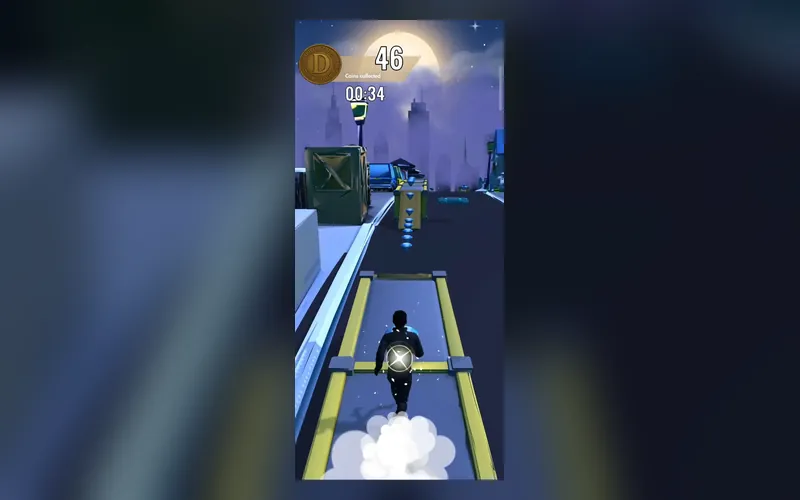
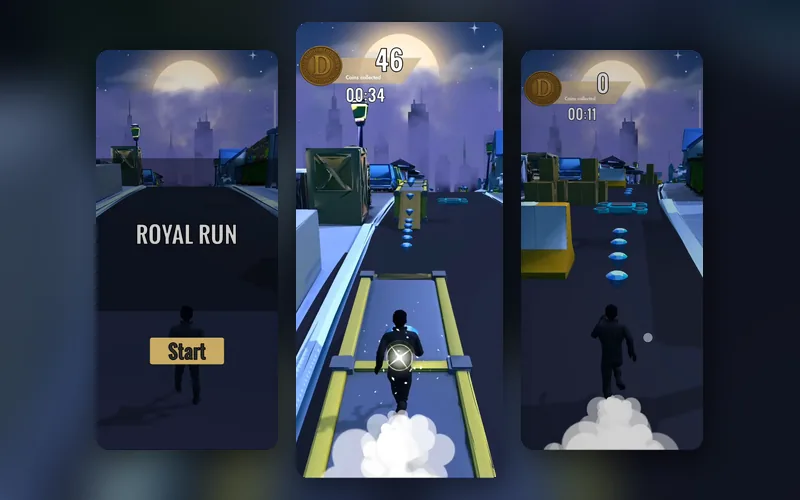
Show three phone screens on portrait game covers
Covers for the eight mobile games now put two more screenshots beside the
main one instead of empty blurred sides; Rhythm Game and Infinite Run take
their third screen from a clip frame.

diff --git a/index.html b/index.html
@@ -17,7 +17,7 @@
   <link rel="preconnect" href="https://fonts.googleapis.com">
   <link rel="preconnect" href="https://fonts.gstatic.com" crossorigin>
   <link href="https://fonts.googleapis.com/css2?family=Chakra+Petch:wght@500;600;700&family=Inter:wght@400;500;600&display=swap" rel="stylesheet">
-  <link rel="stylesheet" href="assets/css/site.css?v=23">
+  <link rel="stylesheet" href="assets/css/site.css?v=24">
   <script>
     try { var t = localStorage.getItem("theme"); if (t) document.documentElement.dataset.theme = t; } catch (e) {}
   </script>
@@ -241,8 +241,8 @@
 
   <div class="toast" id="toast" role="status" aria-live="polite"></div>
 
-  <script src="assets/js/projects.js?v=23"></script>
-  <script src="assets/js/site.js?v=23"></script>
+  <script src="assets/js/projects.js?v=24"></script>
+  <script src="assets/js/site.js?v=24"></script>
   <!-- GoatCounter analytics (no cookies). Dashboard: https://amirulrsly.goatcounter.com -->
   <script data-goatcounter="https://amirulrsly.goatcounter.com/count" async src="//gc.zgo.at/count.js"></script>
 </body>
